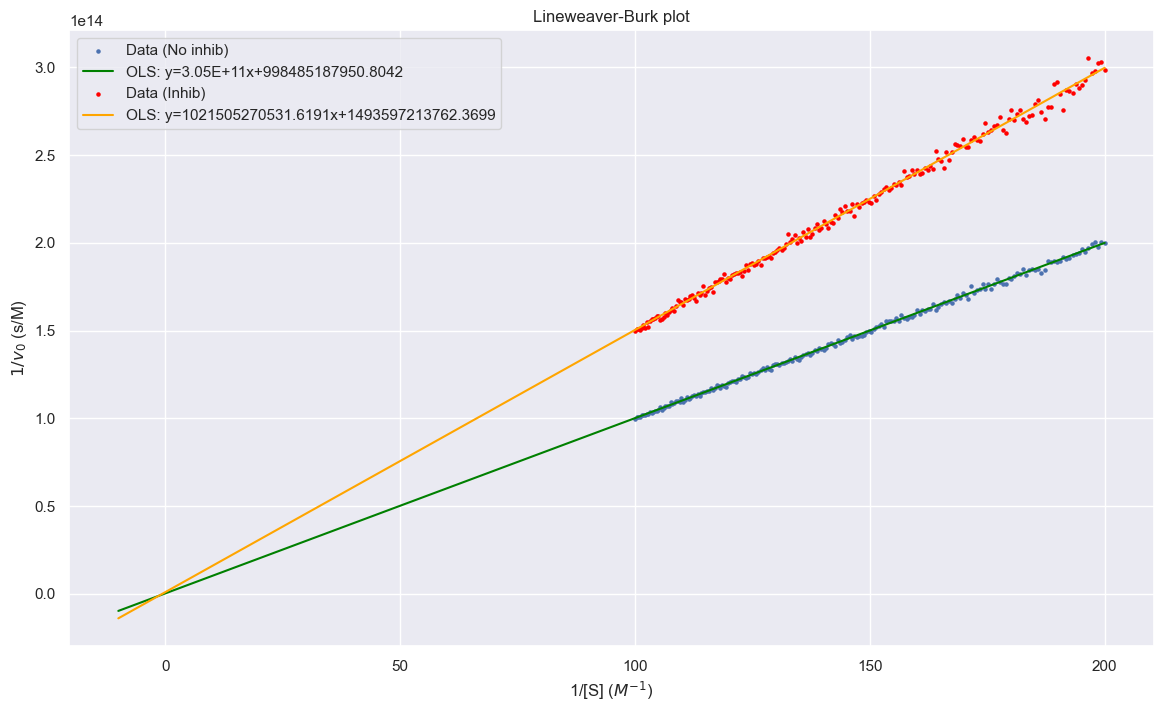
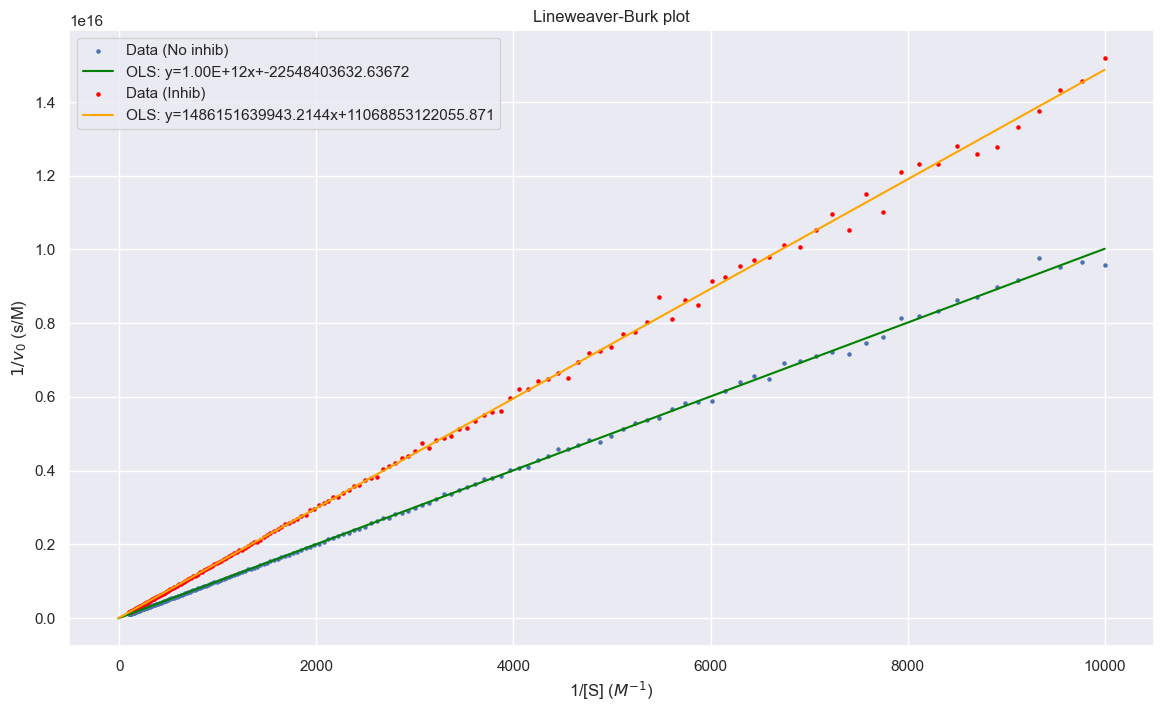
Diffusion, updated MM graphs

diff --git a/projects/Biophysics-Book/Michaelis-Menten.html b/projects/Biophysics-Book/Michaelis-Menten.html
@@ -71,6 +71,9 @@
         <div id="text-contents" style="width:90%; margin:auto">
             <div id="Michaelis-Menten">
                 <h2>Michaelis-Menten Kinetics</h2>
+
+                <h4>Introduction</h4>
+
                 <h4>Binding and Unbinding</h4>
     
                 Let us picture a an enzymatic reaction. We have a substrate, S, which binds to an Enzyme, E, resulting in a bound complex, \(E\cdot S\). After some amount of time, the substrate is transformed into product, P, and the enzyme unbinds. 
@@ -127,59 +130,97 @@
                 <img src="MichaelisMentenGraph.png" style="margin:auto; display: block;  width:clamp(400px,50vw, 1000px)"/>
                 Python code:
                 <code style="margin: auto; width: 50%;"><pre>
-    k_M = 4e-4
-    k_cat = 10
-    E_0 = 1e-12
-    S_array = np.geomspace(1e-5,1e-2,100)
-    v_array = k_cat*E_0*S_array/(k_M+S_array)
-    noise = np.random.normal(size=(100))*5e-14
-    v_array = v_array + noise
-    plt.figure(figsize=(14,8))
-    plt.scatter(S_array, v_array,s=5)
-    plt.title("Michaelis-Menten plot")
-    plt.xlabel("Substrate Concentration (M)")
-    plt.ylabel(f"$v_0$ (M/s)")
-    plt.xticks([i*5e-4 for i in range(0,21)])
-    plt.show()</pre>
+k_M = 4e-4
+k_cat = 10
+E_0 = 1e-12
+S_array = np.geomspace(1e-5,1e-2,100)
+v_array = k_cat*E_0*S_array/(k_M+S_array)
+noise = np.random.normal(size=(100))*5e-14
+v_array = v_array + noise
+plt.figure(figsize=(14,8))
+plt.scatter(S_array, v_array,s=5)
+plt.plot(S_array,
+            [0.5*1e-11 for i in range(100)],
+            color='red',alpha=0.5)
+plt.title("Michaelis-Menten plot")
+plt.xlabel("Substrate Concentration (M)")
+plt.ylabel(f"$v_0$ (M/s)")
+plt.xticks([i*5e-4 for i in range(0,21)])
+plt.yticks([i*1e-12 for i in range(0,11)])
+plt.show()</pre>
                 </code>
     
                 As shown in the generated data above, the value of [S] at which the velocity is half of the asymptotic max is roughly 40 mM. 
     
-                <h5>Lineweaver-Burk plots</h5>
+                <h4>Lineweaver-Burk plots</h4>
     
                 Since trying to estimate the half-max of a curve can be difficult, we might choose to linearize the data and use regression to find the best fit line and calculate the parameters from that. 
                 One common method is Lineweaver-Burk plots, which are also called double-recipricol plots. As the name suggests, 1/[S] is plotted against 1/v. 
-                The y-intercept is v_max. This is evident since as [S] goes to infinity, 1/[S] goes to 0. The slope is \(k_M/V_\text{max}\). The x-intercept is \(-1/k_M\). 
+                The y-intercept is 1/v_max. This is evident since as [S] goes to infinity, 1/[S] goes to 0. The slope is \(k_M/V_\text{max}\). The x-intercept is \(-1/k_M\). 
     
                 <img src="LineweaverBurkPlot.png" style="margin:auto; display: block;  width:clamp(400px,50vw, 1000px)"/>
                 Python code:
                 <code style="margin: auto; width: 50%;"><pre>
-    k_M = 4e-4
-    k_cat = 10
-    E_0 = 1e-12
-    S_array = np.geomspace(1e-5,1e-2,100)
-    v_array = k_cat*E_0*S_array/(k_M+S_array)
-    noise = np.random.normal(size=(100))*5e-14
-    v_array = v_array + noise
-    S_array_inverse = 1/S_array
-    v_array_inverse = 1/v_array
-    plt.figure(figsize=(14,8))
-    plt.scatter(S_array_inverse, v_array_inverse,s=5)
-    model = sm.OLS(v_array_inverse, sm.add_constant(S_array_inverse))
-    results = model.fit()
-    plt.plot(S_array_inverse,
-     results.predict(sm.add_constant(S_array_inverse)),
-     color='orange')
-    plt.title("Lineweaver-Burk plot")
-    plt.xlabel("1/[S] ($M^{-1}$)")
-    plt.ylabel(f"$1/v_0$ (s/M)")
-    plt.legend(['Data',f'OLS: y={results.params[0]}x+{results.params[1]}'])
-    plt.show()</pre>
+k_M = 4e-4
+k_cat = 10
+E_0 = 1e-12
+S_array = np.geomspace(1e-5,1e-2,100)
+v_array = k_cat*E_0*S_array/(k_M+S_array)
+noise = np.random.normal(size=(100))*5e-14
+v_array = v_array + noise
+S_array_inverse = 1/S_array
+v_array_inverse = 1/v_array
+plt.figure(figsize=(14,8))
+plt.scatter(S_array_inverse, v_array_inverse,s=5)
+model = sm.OLS(v_array_inverse,
+                sm.add_constant(S_array_inverse))
+results = model.fit()
+plt.plot(S_array_inverse,
+            results.predict(sm.add_constant(S_array_inverse)),
+            color='orange')
+plt.title("Lineweaver-Burk plot")
+plt.xlabel("1/[S] ($M^{-1}$)")
+plt.ylabel(f"$1/v_0$ (s/M)")
+plt.legend(['Data',
+            f'OLS: y={results.params[1]}x+{results.params[0]}'])
+plt.show()</pre>
                 </code>
-    
-                One thing to note is the heteroskedasticity in the graph. Ordinary Least Squares (OLS) is the best, unbiased linear model when the Gauss-Markov conditions are satisfied - one of which is homoskedasticity (variance of errors is constant over X). 
+                <h5>Noise and Estimations</h5>
+                One thing to note is the heteroskedasticity in the graph above. Ordinary Least Squares (OLS) is the best, unbiased linear model when the Gauss-Markov conditions are satisfied - one of which is homoskedasticity (variance of errors is constant over X). 
                 In practice, this can lead to bad estimates as the noisy values on the right can drastically affect the best-fit parameters.
+
+                The following is a graph with Noiseless Michaelis-Menten data and the same data with noise \(\simN(0,\sigma=1e-13)\). Note that the values are relatively similar.
+
+                <img src="MichaelisMentenNoise.png" style="margin:auto; display: block;  width:clamp(400px,50vw, 1000px)"/>
+
+
+                Below is a graph comparing the fit with v_0 having homoskedastic errors. Note that the double recipricol plot does not have homoskedastic errors. 
+
+                <img src="LineweaverBurkNoise.png" style="margin:auto; display: block;  width:clamp(400px,50vw, 1000px)"/>
+
+                Here is a comparison of the determined parameters from each graph:
+                <ul>
+                    <li>Noiseless:
+                        <ul>
+                            <li>\(v_{max}=1e-11\)</li>
+                            <li>\(k_M=4e-4\)</li>
+                        </ul>
+                    </li>
+                    <li>With noise with std dev 1e-13:
+                        <ul>
+                            <li>\(v_{max}=6e-12\)</li>
+                            <li>\(k_M=2.1e-4\)</li>
+                        </ul>
+                    </li>
+                </ul>
+
     
+    <h3>Specificity</h3>
+    A common metric for enzyme efficiency is given by 
+
+    $$k_s=\frac{k_{cat}}{K_M}$$
+
+
     <h3>Inhibition</h3>
     
     <figure><a href="https://commons.wikimedia.org/wiki/File:Inhibition-types.jpg#/media/File:Inhibition-types.jpg"><img src="https://upload.wikimedia.org/wikipedia/commons/d/dc/Inhibition-types.jpg" alt="Inhibition-types.jpg" style="max-height: 300px;"></a><br>By <a href="//commons.wikimedia.org/w/index.php?title=User:Athel_cb&amp;amp;action=edit&amp;amp;redlink=1" class="new" title="User:Athel cb (page does not exist)">Athel cb</a> - <span class="int-own-work" lang="en">Own work</span>, <a href="https://creativecommons.org/licenses/by-sa/4.0" title="Creative Commons Attribution-Share Alike 4.0">CC BY-SA 4.0</a>, <a href="https://commons.wikimedia.org/w/index.php?curid=130486959">Link</a></figure>
@@ -224,50 +265,55 @@
                 <img src="LineweaverBurkInhib.png" style="margin:auto; display: block;  width:clamp(400px,50vw, 1000px)"/>
                 Python code:
                 <code style="margin: auto; width: 50%;"><pre>
-    k_M = 4e-4
-    k_cat = 10
-    E_0 = 1e-12
-    S_array = np.geomspace(5e-3,1e-2,200)
-    test_points = 1/np.array([-0.1,5e-3])
-    
-    alpha = 1
-    v_array = k_cat*E_0/(1+k_cat*alpha/S_array)
-    noise = np.random.normal(size=(200))*.5e-16
-    v_array = v_array + noise
-    S_array_inverse = 1/S_array
-    v_array_inverse = 1/v_array
-    ax = plt.figure(figsize=(14,8))
-    plt.scatter(S_array_inverse, v_array_inverse,s=5)
-    model = sm.OLS(v_array_inverse,
-     sm.add_constant(S_array_inverse))
-    results = model.fit()
-    plt.plot(test_points,
-     results.predict(sm.add_constant(test_points)),
-     color='green')
-    
-    alpha = 1.5
-    v_array = k_cat*E_0/(1+k_cat*alpha/S_array)
-    noise = np.random.normal(size=(200))*.5e-16
-    v_array = v_array + noise
-    S_array_inverse = 1/S_array
-    v_array_inverse = 1/v_array
-    plt.scatter(S_array_inverse, v_array_inverse,s=5,color='red')
-    model2 = sm.OLS(v_array_inverse,
-     sm.add_constant(S_array_inverse))
-    results2 = model2.fit()
-    plt.plot(test_points,
-     results2.predict(sm.add_constant(test_points)),
-     color='orange')
-    
-    
-    plt.title("Lineweaver-Burk plot")
-    plt.xlabel("1/[S] ($M^{-1}$)")
-    plt.ylabel(f"$1/v_0$ (s/M)")
-    plt.legend(['Data (No inhib)',
-    f'OLS: y={results.params[0]:.2E}x+{results.params[1]}',
-    'Data (Inhib)',
-     f'OLS: y={results2.params[0]}x+{results2.params[1]}'])
-    plt.show()</pre>
+import decimal
+np.random.seed(3)
+k_M = 4e-4
+k_cat = 10
+E_0 = 1e-12
+S_array = np.geomspace(1e-4,1e-2,200)
+test_points = 1/np.array([-0.1,1e-4])
+
+alpha = 1
+v_array = k_cat*E_0/(1+k_cat*alpha/S_array)
+noise = np.random.normal(size=(200))*.25e-17
+v_array = v_array + noise
+S_array_inverse = 1/S_array
+v_array_inverse = 1/v_array
+ax = plt.figure(figsize=(14,8))
+plt.scatter(S_array_inverse,
+            v_array_inverse,s=5)
+model = sm.OLS(v_array_inverse,
+                sm.add_constant(S_array_inverse))
+results = model.fit()
+plt.plot(test_points,
+            results.predict(sm.add_constant(test_points)),
+            color='green')
+
+alpha = 1.5
+v_array = k_cat*E_0/(1+k_cat*alpha/S_array)
+noise = np.random.normal(size=(200))*.25e-17
+v_array = v_array + noise
+S_array_inverse = 1/S_array
+v_array_inverse = 1/v_array
+plt.scatter(S_array_inverse,
+            v_array_inverse,s=5,
+            color='red')
+model2 = sm.OLS(v_array_inverse,
+                sm.add_constant(S_array_inverse))
+results2 = model2.fit()
+plt.plot(test_points,
+            results2.predict(sm.add_constant(test_points)),
+            color='orange')
+
+
+plt.title("Lineweaver-Burk plot")
+plt.xlabel("1/[S] ($M^{-1}$)")
+plt.ylabel(f"$1/v_0$ (s/M)")
+plt.legend(['Data (No inhib)',
+            f'OLS: y={results.params[1]:.2E}x+{results.params[0]}',
+            'Data (Inhib)',
+            f'OLS: y={results2.params[1]}x+{results2.params[0]}'])
+plt.show()</pre>
                 </code>
     
     While it is not apparent in the figure, as the inhibitor is added, the line rotates counter-clockwise, with the y-intercept remaining the same. 

diff --git a/projects/Biophysics-Book/Diffusion.html b/projects/Biophysics-Book/Diffusion.html
@@ -70,27 +70,37 @@
 <h3>by John Della Rosa</h3>
         <div id="text-contents" style="width:90%; margin:auto">
             <div id="Table-of-Contents">
-                <ol>
-                    Part 0: Introduction
-                    <li><a href="./Introduction.html">Introduction</a></li>
-                    Part I: Foundations
-                    <li><a href="./Probability.html">Probability, Statistics, & Entropy</a></li>
-                    <li><a href="./Basic-Thermodynamics.html">Thermodynamics</a></li>
-                    <li><a href="./Advanced-Thermodynamics.html">Advanced Thermodynamics</a></li>
+                <h2>Diffusion Equation</h2>
+                Let \(\phi(r,t)\) be the density of a specie at coordinate r and time t. 
+                Let \(D(\phi,r)\) be the a coefficient that describes how captures how diffusivity changes with respect to density and time. 
+                The diffusion equation is gven by:
+                
+                $$\frac{\partial \phi(r,t)}{\partial t}
+                <h2>Fick's First Law</h2>
+                <h2>Fick's Second Law</h2>
+                <h2>Osmosis</h2>
+                <h2>Fokker-Planck Equation</h2>
+                The probability density of the velocity of a particle under drift conditions can be described by a stochastic differential equation (SDE)
 
-                    <li><a href="./Kinetics-Equilibrium.html">Kinetics & Equilibrium</a></li>
-                    <li><a href="./Statistical-Mechanics.html">Statistical Mechanics</a></li>
-                    Part II: Applications
-                    <li><a href="./Ligand-Binding.html">Ligand Binding</a></li>
-                    <li><a href="./Michaelis-Menten.html">Michaelis-Menten Kinetics</a></li>
-                    <li><a href="./Stochastic-Processes.html">Stochastic Processes</a></li>
-                    <li><a href="./Diffusion.html">Diffusion</a></li>
-                    <li><a href="./Protein-Biochemistry.html">Protein Biochemistry</a></li>
-                    <li><a href="./Protein-Folding.html">Protein Folding</a></li>
-                    <li><a href="./Nucleic-Acids.html">Nucleic Acids</a></li>
+                Since Brownian motion has its used in biology terminology as well, we will switch to W instead of B to describe the random process phenomenon to avoid confusion. 
 
-                </ol>
+                Let us describe the the location of a particle by 
 
+                $$dX_t=\mu(X_t,t)dt+\sigma(X_t,t)dW_t$$
+
+                where \(X_t\) is the location of the particle at time t, \(\mu(X_t,t)\) is the drift felt as a function of time and space, \(\sigma(X_t,t)\) is the noise coefficient for standard Wiener process. 
+
+                We can describe the evolution of the probability distribution for the location of the particle through solving the Fokker-Planck Equation:
+
+                $$\frac{\partial}{\partial t}p(x,t)=-\frac{\partial}{\partial x}[\mu(x,t)p(x,t)]+\frac{\partial^2}{\partial x^2}[D(x,t)p(x,t)]$$
+
+                where \(D(X_t,t)=\frac{1}{2}\sigma^2\)
+
+                This becomes easier when D(x,t) is a constant, which can often be an appropriate assumption. 
+
+                <h2>Partial Differential Equations</h2>
+                <h3>Numerical Methods</h3>
+                <h4>Crank-Nicolson</h4>
 
             </div>
 

diff --git a/projects/Biophysics-Book/Electrochemistry.html b/projects/Biophysics-Book/Electrochemistry.html
@@ -70,28 +70,10 @@
 <h3>by John Della Rosa</h3>
         <div id="text-contents" style="width:90%; margin:auto">
             <div id="Table-of-Contents">
-                <ol>
-                    Part 0: Introduction
-                    <li><a href="./Introduction.html">Introduction</a></li>
-                    Part I: Foundations
-                    <li><a href="./Probability.html">Probability, Statistics, & Entropy</a></li>
-                    <li><a href="./Basic-Thermodynamics.html">Thermodynamics</a></li>
-                    <li><a href="./Advanced-Thermodynamics.html">Advanced Thermodynamics</a></li>
 
-                    <li><a href="./Kinetics-Equilibrium.html">Kinetics & Equilibrium</a></li>
-                    <li><a href="./Statistical-Mechanics.html">Statistical Mechanics</a></li>
-                    Part II: Applications
-                    <li><a href="./Ligand-Binding.html">Ligand Binding</a></li>
-                    <li><a href="./Michaelis-Menten.html">Michaelis-Menten Kinetics</a></li>
-                    <li><a href="./Stochastic-Processes.html">Stochastic Processes</a></li>
-                    <li><a href="./Diffusion.html">Diffusion</a></li>
-                    <li><a href="./Protein-Biochemistry.html">Protein Biochemistry</a></li>
-                    <li><a href="./Protein-Folding.html">Protein Folding</a></li>
-                    <li><a href="./Nucleic-Acids.html">Nucleic Acids</a></li>
+                <h2>Nernst Equation</h2>
 
-                </ol>
-
-
+                <h2>Goldman Equation</h2>
             </div>
 
         </div>
